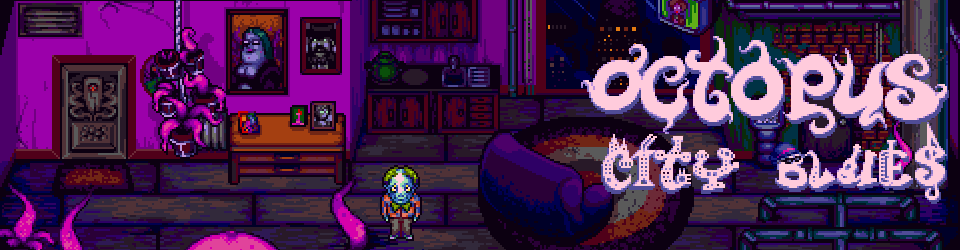
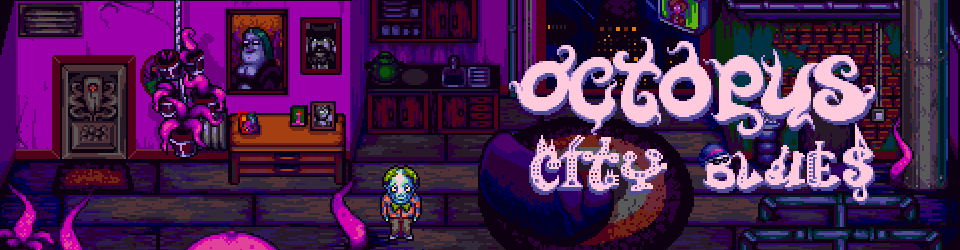
Resize header image when page is resized

Changed region(s): [[0.5312, 0.14, 1.0, 0.812]]

diff --git a/css/style.css b/css/style.css
@@ -23,7 +23,10 @@ body{
 .header {
     text-align: center;
     font-size: 0;
-    direction: rtl;
+}
+.header img {
+    display: inline-block;
+    max-width: 100%;
 }
 .wrapper{
     background-color:#010500;
